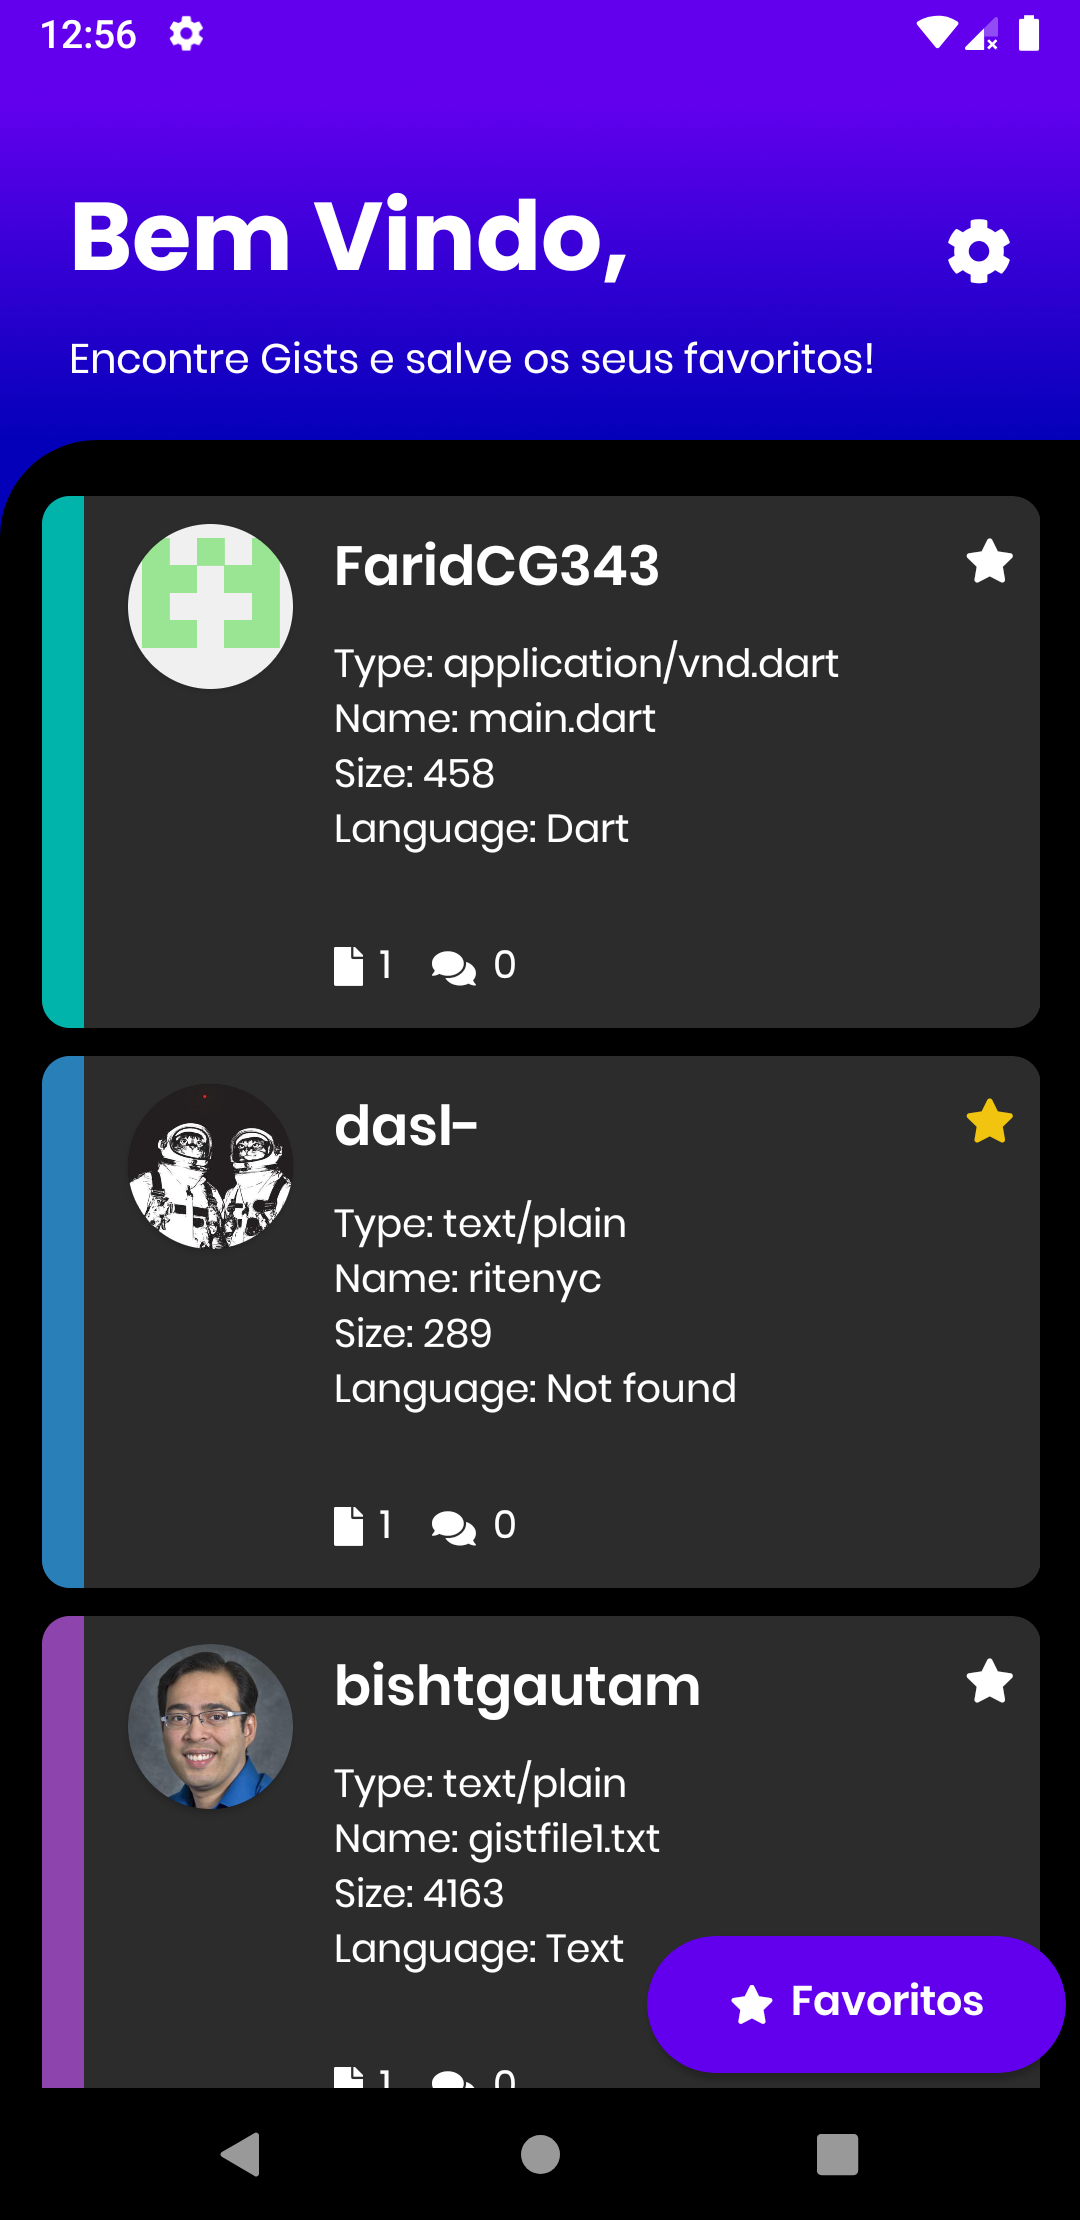
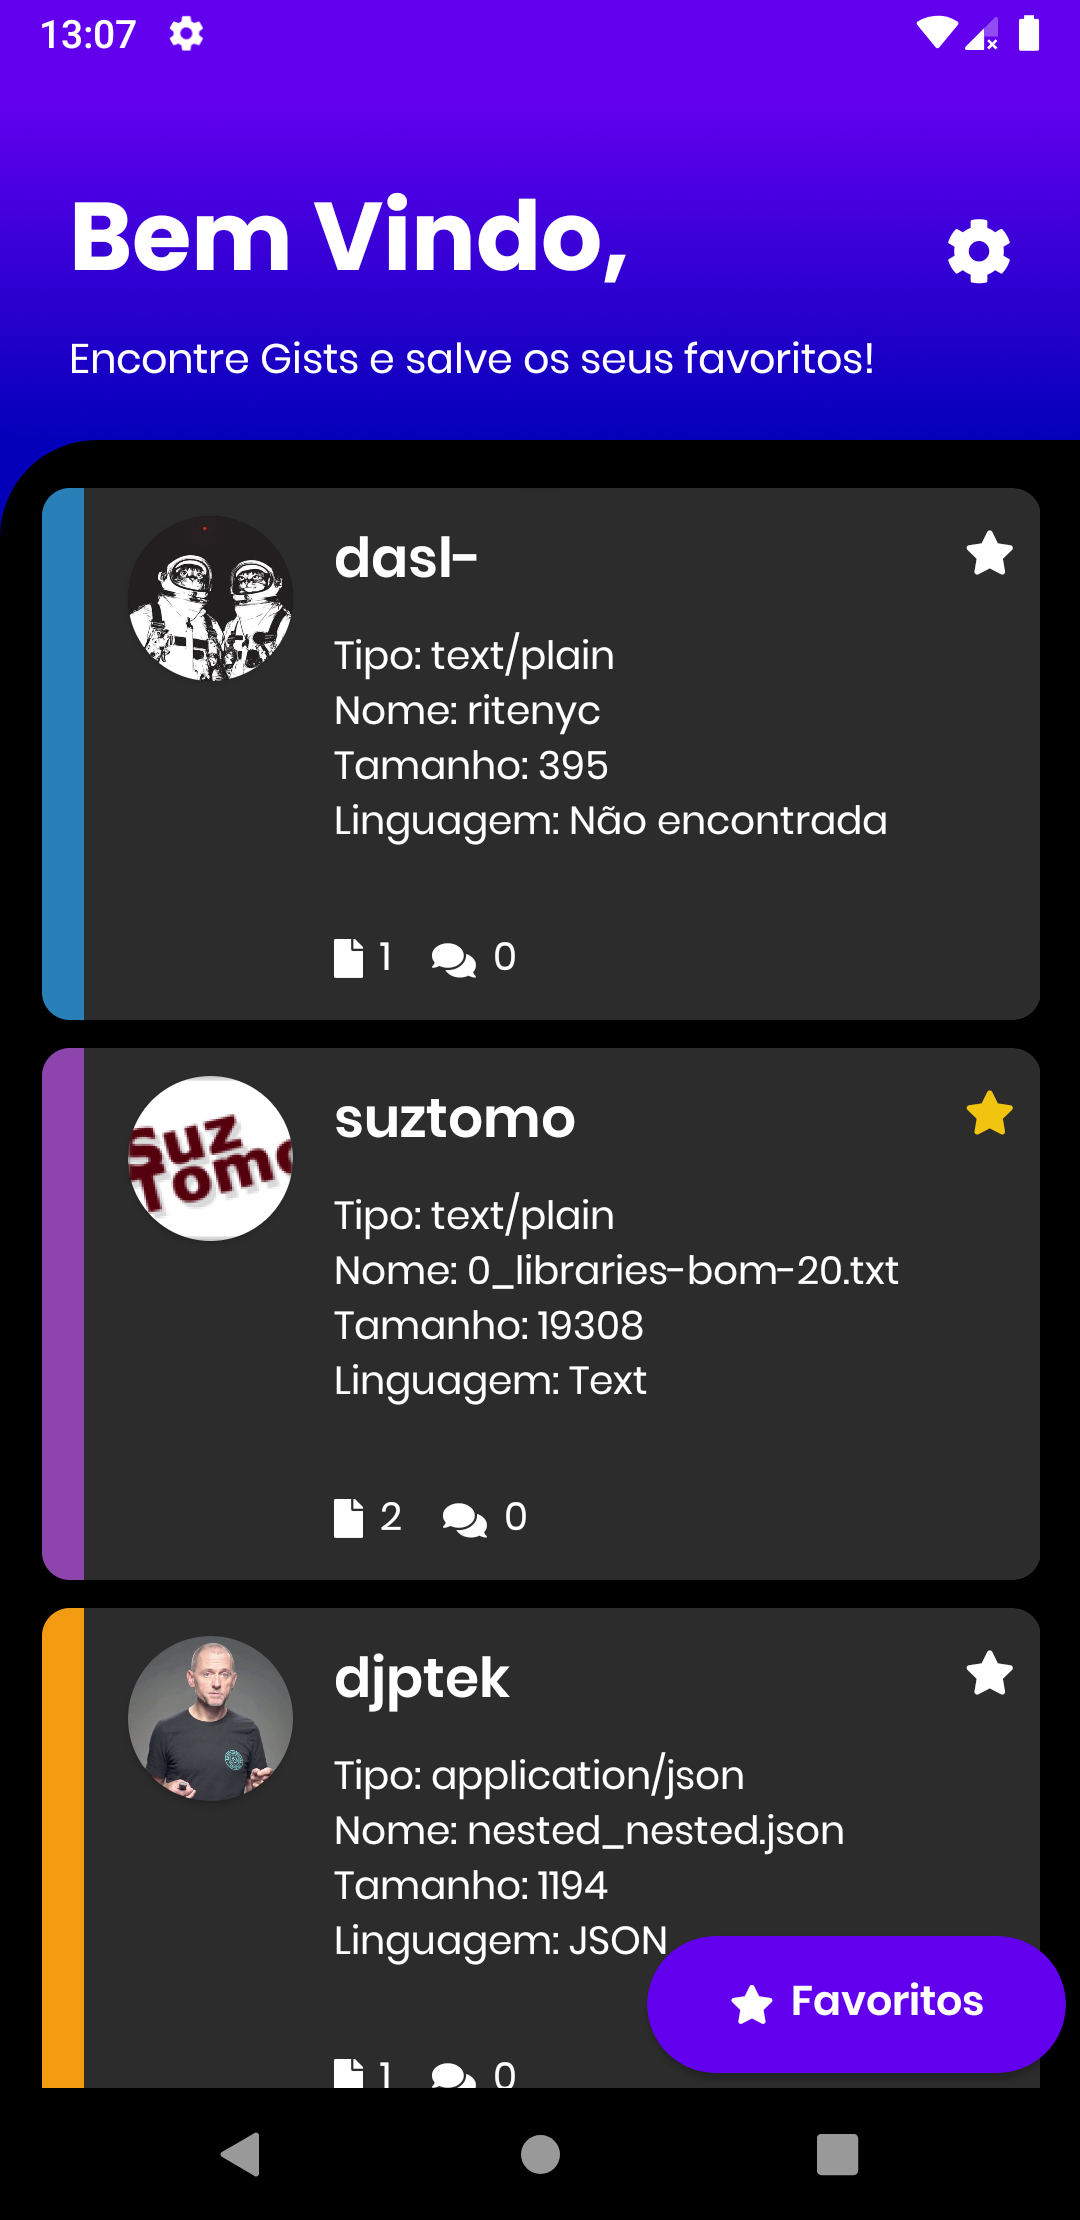
add info

diff --git a/DiscoverGists/DiscoverGists/Models/Gist.cs b/DiscoverGists/DiscoverGists/Models/Gist.cs
@@ -125,10 +125,10 @@ namespace DiscoverGists.Models
                     return "";
 
                 var presentationReturn =
-                    "Type: " + FirstFile.Type + "\n" +
-                    "Name: " + FirstFile.Filename + "\n" +
-                    "Size: " + FirstFile.Size + "\n" +
-                    "Language: " + FirstFile.LanguagePresentation + "\n";
+                    "Tipo: " + FirstFile.Type + "\n" +
+                    "Nome: " + FirstFile.Filename + "\n" +
+                    "Tamanho: " + FirstFile.Size + "\n" +
+                    "Linguagem: " + FirstFile.LanguagePresentation + "\n";
 
                 return presentationReturn;
             }

diff --git a/DiscoverGists/DiscoverGists/Models/File.cs b/DiscoverGists/DiscoverGists/Models/File.cs
@@ -31,7 +31,7 @@ namespace DiscoverGists.Models
         public string ColorFromLanguage { get; set; }
 
         [JsonIgnore]
-        public string LanguagePresentation => !string.IsNullOrEmpty(Language) ? Language : "Not found";
+        public string LanguagePresentation => !string.IsNullOrEmpty(Language) ? Language : "Não encontrada";
     }
 
     public static class FileExtention
